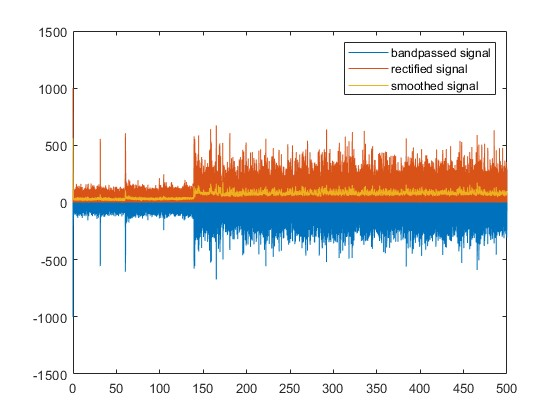
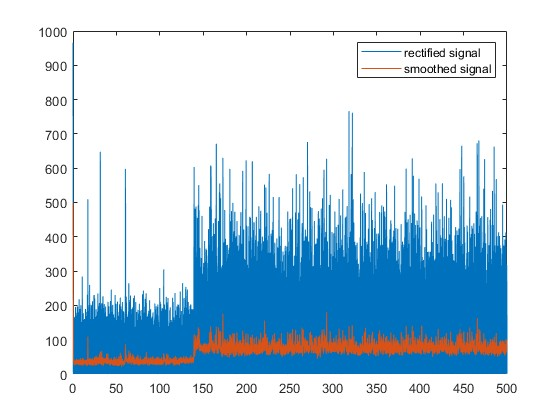
add adaptive filter for ECG removal

diff --git a/src/emgPreprocess.m b/src/emgPreprocess.m
@@ -1,6 +1,7 @@
 alldata = load("../data/synchronized/Rocky_synchedSpikeAndAnalogData_20220223.mat");
 signalData = alldata.analogData;
 fs = 10000;
+new_fs = 1000;
 
 %
 % measure heart rate from EKG(ECG) signal
@@ -8,17 +9,22 @@ fs = 10000;
 ECG = signalData.data(:, 8);
 
 % notch filtering
-notchfilter = designfilt('bandstopiir', 'filterOrder', 2, ...
-                        'HalfPowerFrequency1', 59, 'HalfPowerFrequency2', 61, ...
-                        'DesignMethod', 'butter', 'SampleRate', fs);
-denoisedECG = filtfilt(notchfilter, double(ECG));
+denoisedECG = double(ECG);
+for s=(1:8)
+    d = designfilt('bandstopiir', 'filterOrder', 2, ...
+                    'HalfPowerFrequency1', 60*s-1, 'HalfPowerFrequency2', 60*s+1, ...
+                    'DesignMethod', 'butter', 'SampleRate', fs);
+    denoisedECG = filtfilt(d, denoisedECG);
+end
+
+denoisedECG = downsample(denoisedECG, 10);
 
 % heart rate = how many value > RMS*3 per minutes
-rmsECG = rms(denoisedECG) .* 3;
-aboveThresh = denoisedECG > rmsECG;
-d = diff(aboveThresh); % Find rising edges
-numPeaks = sum(abs(d))./2; % Count rising edges.
-fprintf("diff heartrate; %s \n", numPeaks ./ numel(signalData.time) .* 60 .* fs)
+% rmsECG = rms(denoisedECG) .* 3;
+% aboveThresh = denoisedECG > rmsECG;
+% d = diff(aboveThresh); % Find rising edges
+% numPeaks = sum(abs(d))./2; % Count rising edges.
+% fprintf("diff heartrate; %s \n", numPeaks ./ numel(signalData.time) .* 60 .* fs)
 
 
 % separate signal by trial
@@ -45,15 +51,17 @@ for i=(1:5)
                         'DesignMethod', 'butter', 'SampleRate', fs);
         baselineRemovedEMG = filtfilt(d, baselineRemovedEMG);
     end
-    bandpassedEMG = bandpass(baselineRemovedEMG, [10, 450], fs);
+    baselineRemovedEMG = downsample(baselineRemovedEMG,10);
+    [ ECGremovedEMG, ec] = adaptiveFilter(baselineRemovedEMG, denoisedECG, baselineRemovedEMG(1:100*new_fs), ecgrest(1:100*new_fs),new_fs);
+    bandpassedEMG = bandpass(ECGremovedEMG, [20, 450], new_fs);
     rectifiedEMG = abs(bandpassedEMG);
-    smoothedEMG = sqrt(movmean(rectifiedEMG.^2, 100));
-    downsampledEMG = downsample(smoothedEMG,10);
-    preprocessedEMGs(:, i) = downsampledEMG; % Step 2 smoothed and put into the array
+    smoothedEMG = movmean(rectifiedEMG, round(0.1*new_fs)); %RMS: sqrt(movmean(rectifiedEMG.^2, 500))
+    preprocessedEMGs(:, i) = smoothedEMG; % Step 2 smoothed and put into the array
 end
 % for plot: plot(signalData.time, double(EMGs(:, i)), downsample(signalData.time,10), downsampledEMG, downsample(signalData.time,10), smoothedEMG)
 %legend('rawdata', 'denoised data', 'smoothed data')
 % for fft plot [y,x] = periodogram(double(EMG(:,i)), [], [], fs);
+% pwelch(curEMG,30*fs,[],[],fs); axis([0 1 -inf inf]); title('Welchs, 30s window')
 
 
 % Step 3 separate by trial from synchInfo
@@ -72,5 +80,5 @@ for t=(1:length(trialStartTimes)-1)
     singleTrialData(t).handKinematics = movementData.data(t).TrialData.handKinematics;
 end
 
-save('../data/processed/singleTrials_20220223.mat', 'singleTrialData', 'signalData.EMGMuscleNames');
-clear;
+muscleLabel = signalData.EMGMuscleNames;
+save('../data/processed/singleTrials_20220223_movave_100ms.mat', 'singleTrialData', 'muscleLabel');

diff --git a/src/emgAnalysis.m b/src/emgAnalysis.m
@@ -1,5 +1,5 @@
 % 1. fetch trials from all data
-file = load('../data/processed/singleTrials_20220223.mat');
+file = load('../data/processed/singleTrials_20220223_movave_50ms.mat');
 singleTrialData = file.singleTrialData;
 
 dataLength = 0;
@@ -32,19 +32,23 @@ end
 % 2. show each signal and mean trajectory
 X = (-200:600);
 plotPosition = [6, 3, 2, 1, 4, 7, 8, 9];
-% for channel=(1:5)
-%     figure
-%     for direction=(1:8)
-%         Y = MEG(:,channel,directionArray==direction);
-%         plotY = reshape(Y, 801, []);
-%         subplot(3,3, plotPosition(direction));
-%         plot(X, plotY, 'Color', '#aaaaaa');
-%         hold on
-%         plot(X, mean(plotY, 2), 'Color', 'k');
-%         hold off
-%     end
-%     sgtitle(string(file.muscle(channel)) + ' at each direction');
-% end
+screenSize = [1 1 1200 900];
+for channel=(1:5)
+    figure
+    for direction=(1:8)
+        Y = MEG(:,channel,directionArray==direction);
+        plotY = reshape(Y, 801, []);
+        subplot(3,3, plotPosition(direction));
+        plot(X, plotY, 'Color', '#aaaaaa');
+        hold on
+        plot(X, mean(plotY, 2), 'Color', 'k');
+        hold off
+    end
+    subplot(3,3,5);
+    imshow('images/directions.png')
+    hold off
+    sgtitle(string(file.muscleLabel(channel)) + ' at each direction');
+end
 
 % 3. show mean trajectory at each reward and direction
 rewardColor = ['r', 'y', 'b', 'k'];
@@ -61,7 +65,10 @@ for channel=(1:5)
         end
         hold off
     end
-    sgtitle(string(file.muscle(channel)) + ' at each direction');
+    subplot(3,3,5);
+    imshow('images/directions.png')
+    hold off
+    sgtitle(string(file.muscleLabel(channel)) + ' at each direction');
 end
 
 % transDict = containers.Map;

diff --git a/src/adaptiveFilter.m b/src/adaptiveFilter.m
@@ -1,0 +1,27 @@
+function [ eout, ec] = adaptiveFilter(emg,ecg, emgrest, ecgrest,fs)
+
+if length(emgrest) ~= length(ecgrest)
+    error('emgrest and ecgrest data-length must be the same');
+end
+
+[ ns, nc ] = size(emgrest);
+p = round(0.05*fs); % parameter p = nr. of samples over 0.05 s 
+
+for c = 1:nc % for each emg channel
+    U = zeros(ns,p); % matrix of delayed inputs
+    U(:,1) = ecgrest;
+    for i = 2:p
+        U(i:ns,i) = ecgrest(1:ns-i+1);
+    end % for i
+    h(:,c) = U\emgrest(:,c);  % least square fit of impulse response h
+    
+end % for c
+
+[ ns, nc ] = size(emg);
+ec = zeros(ns,nc);
+for c = 1:nc
+    ec1 = conv(ecg,h(:,c));% apply convolution
+    ec(:,c) = ec1(1:ns);
+end
+% correction applied and final HP filter
+eout = emg-ec;

diff --git a/report/20220809.md b/report/20220809.md
@@ -10,11 +10,16 @@ Information:
 
 
 <img src='../result/images/20220809/tric-at-each-direction.jpg' width='100%'>
-
 <img src='../result/images/20220809/trap-at-each-direction.jpg' width='100%'>
-
 <img src='../result/images/20220809/pdel-at-each-direction.jpg' width='100%'>
-
 <img src='../result/images/20220809/lbic-at-each-direction.jpg' width='100%'>
-
 <img src='../result/images/20220809/adel-at-each-direction.jpg' width='100%'>
+
+
+## discussing and picking up good and bad sample
+
+- Tric is bad many noise
+- Trap is great. 0~135 degrees increase from 200ms to 300ms. 225~270 degree decrease little from 200ms to 300ms.
+- PDel is better. 0~135 degrees increase from 200ms to 300ms. 225~270 degree decrease little from 200ms to 300ms.
+- LBic is not so bad. 135~180 degrees increase. a 270 degree decreases.
+- ADel is great. 45~180 degrees increase. 225~315 degree decrease.

diff --git a/report/20220810.md b/report/20220810.md
@@ -8,13 +8,10 @@ Information:
 - gray lines are each trials and brack line is a mean trajectory
 - position of figure means direction
 
-
 <img src='../result/images/20220810/tric-at-each-direction.jpg' width='100%'>
-
 <img src='../result/images/20220810/trap-at-each-direction.jpg' width='100%'>
-
 <img src='../result/images/20220810/pdel-at-each-direction.jpg' width='100%'>
-
 <img src='../result/images/20220810/lbic-at-each-direction.jpg' width='100%'>
-
 <img src='../result/images/20220810/adel-at-each-direction.jpg' width='100%'>
+
+## 

diff --git a/report/20220803.md b/report/20220803.md
@@ -72,4 +72,16 @@ Downsampled from 10 KHz to 1 KHz
 
 saved to data/processed/singleTrials_20220223.mat
 
-get mean trajectory of EMG data
+## reference
+
+motion artifact is ~20 Hz
+https://link.springer.com/chapter/10.1007/978-981-13-9097-5_1
+
+motion artifact is ~20 Hz and ECG is ~30Hz
+http://dspace.unimap.edu.my/xmlui/bitstream/handle/123456789/7276/Surface%20Electromyography%20Signal%20Processing.pdf?sequence=1
+
+EMG charactristic doesn't change but cut-off frequency(10,20,30,40)
+https://ieeexplore.ieee.org/document/6746944
+
+
+
